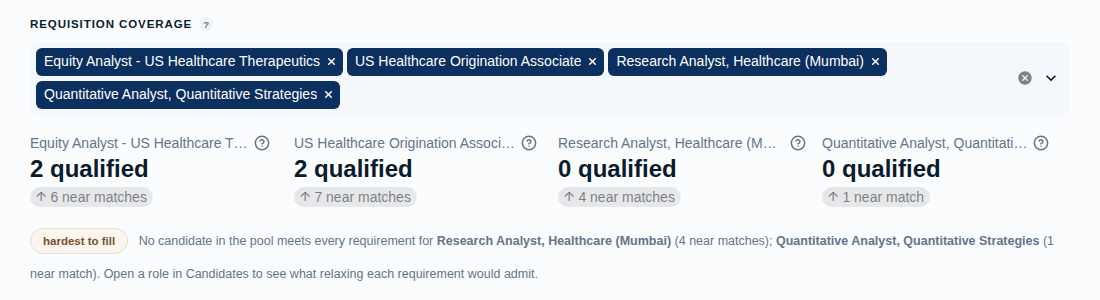
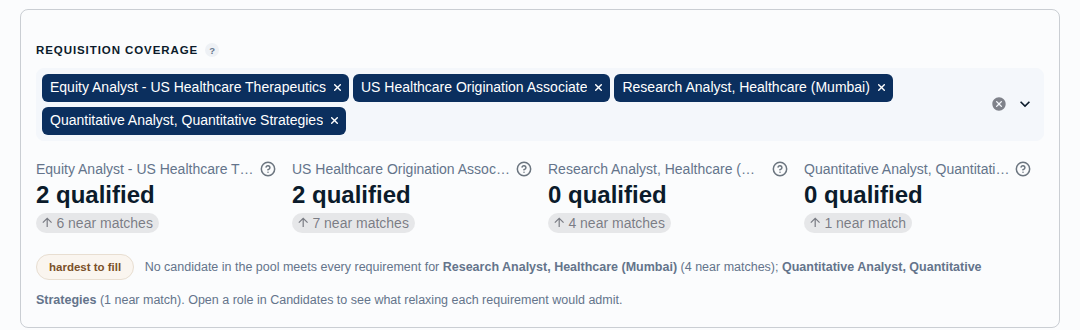
Add files via upload

diff --git a/app.py b/app.py
@@ -2526,59 +2526,76 @@ with tab_insights:
     )
 
     # -- Requisition coverage: the concrete question first ---------------
-    # "Which roles can this pool actually staff?" answered per posting,
-    # before any chart: qualified / near-match counts for every saved
-    # requisition, with the thinnest bench called out.
-    section("Requisition coverage",
-            "For each saved job posting: how many candidates in the pool "
-            "meet every hard requirement (qualified), and how many miss "
-            "exactly one (near match). Counts are for the full pool, "
-            "before sidebar filters.")
-    # Selectable, so the row scales past a handful of postings: every
-    # requisition is shown by default, and a user tracking two roles can
-    # narrow to just those.
-    _req_pick = st.multiselect(
-        "Requisitions to show",
-        options=[sp["id"] for sp in store.items],
-        default=[sp["id"] for sp in store.items],
-        format_func=lambda rid: next(
-            sp["title"] for sp in store.items if sp["id"] == rid),
-        label_visibility="collapsed",
-    )
-    _shown = [sp for sp in store.items if sp["id"] in _req_pick]
-    if not _shown:
-        st.caption("Pick at least one requisition to see its coverage.")
-    _unfilled = []
-    _PER_ROW = 4
-    _req_cols = []
-    for _i in range(0, len(_shown), _PER_ROW):
-        _req_cols.extend(st.columns(_PER_ROW))
-    for _col, _spec in zip(_req_cols, _shown):
-        _ex, _nr = match_all(candidates, _spec, store=store)
-        _title = _spec["title"]
-        _col.metric(
-            _title if len(_title) <= 34 else _title[:32] + "…",
-            f"{len(_ex)} qualified",
-            delta=f"{len(_nr)} near match" + ("es" if len(_nr) != 1 else ""),
-            delta_color="off",
-            help=f"{_spec.get('source', '')}. Qualified candidates meet "
-                 "every hard requirement; near matches miss exactly one.",
-        )
-        if not _ex:
-            _unfilled.append((_title, len(_nr)))
-    if _unfilled:
-        _parts = "; ".join(
-            f"<b>{t}</b> ({n} near match" + ("es" if n != 1 else "") + ")"
-            for t, n in _unfilled)
-        st.markdown(
-            f"<span class='pill pill-note'>hardest to fill</span> "
-            f"<span style='font-size:12.5px;color:{MUTED}'>"
-            f"No candidate in the pool meets every requirement for "
-            f"{_parts}. Open a role in Candidates to see what relaxing "
-            "each requirement would admit.</span>",
-            unsafe_allow_html=True,
-        )
-    st.markdown("---")
+    # Its own bordered card, run as a fragment: the posting picker reruns
+    # only this block, not the whole script, and the card border separates
+    # it from the pool charts below, which answer a different question.
+    @st.cache_data(show_spinner=False)
+    def _req_counts() -> list[tuple[str, str, str, int, int]]:
+        out = []
+        for _sp in store.items:
+            _ex, _nr = match_all(candidates, _sp, store=store)
+            out.append((_sp["id"], _sp["title"], _sp.get("source", ""),
+                        len(_ex), len(_nr)))
+        return out
+
+    @st.fragment
+    def _req_coverage() -> None:
+        with st.container(border=True):
+            section("Requisition coverage",
+                    "For each saved job posting: how many candidates in "
+                    "the pool meet every hard requirement (qualified), "
+                    "and how many miss exactly one (near match). Counts "
+                    "are for the full pool, before sidebar filters.")
+            _rows = _req_counts()
+            _req_pick = st.multiselect(
+                "Requisitions to show",
+                options=[r[0] for r in _rows],
+                default=[r[0] for r in _rows],
+                format_func=lambda rid: next(
+                    r[1] for r in _rows if r[0] == rid),
+                label_visibility="collapsed",
+            )
+            _shown = [r for r in _rows if r[0] in _req_pick]
+            if not _shown:
+                st.caption("Pick at least one requisition to see its "
+                           "coverage.")
+            _PER_ROW = 4
+            _req_cols = []
+            for _i in range(0, len(_shown), _PER_ROW):
+                _req_cols.extend(st.columns(_PER_ROW))
+            _unfilled = []
+            for _col, (_rid, _title, _src, _nq, _nn) in zip(_req_cols,
+                                                            _shown):
+                _col.metric(
+                    _title if len(_title) <= 34 else _title[:32] + "…",
+                    f"{_nq} qualified",
+                    delta=f"{_nn} near match" + ("es" if _nn != 1 else ""),
+                    delta_color="off",
+                    help=f"{_src}. Qualified candidates meet every hard "
+                         "requirement; near matches miss exactly one.",
+                )
+                if not _nq:
+                    _unfilled.append((_title, _nn))
+            if _unfilled:
+                _parts = "; ".join(
+                    f"<b>{t}</b> ({n} near match"
+                    + ("es" if n != 1 else "") + ")"
+                    for t, n in _unfilled)
+                st.markdown(
+                    f"<span class='pill pill-note'>hardest to fill</span> "
+                    f"<span style='font-size:12.5px;color:{MUTED}'>"
+                    f"No candidate in the pool meets every requirement "
+                    f"for {_parts}. Open a role in Candidates to see what "
+                    "relaxing each requirement would admit.</span>",
+                    unsafe_allow_html=True,
+                )
+
+    _req_coverage()
+
+    section("Pool distribution",
+            "How the filtered pool spreads across regions, sectors, "
+            "tenure and credentials. These charts respect the sidebar "
+            "filters and the quality threshold below.")
 
     ctrl1, ctrl2, ctrl3 = st.columns([1.2, 1.2, 1.6])
     chart_quality = ctrl1.select_slider(
@@ -2603,11 +2620,6 @@ with tab_insights:
     if not charted:
         st.info("No candidates left at this threshold.")
     else:
-        st.caption(
-            "Each cell counts the candidates in a group who cover a "
-            "sector, with totals in the axis labels. Empty cells are "
-            "coverage gaps where additional sourcing may be needed."
-        )
         GROUP_KEY = {
             "Region": lambda c: c.get("region"),
             "Market side": lambda c: label_of(c.get("market_side")),
@@ -2637,16 +2649,22 @@ with tab_insights:
                 texttemplate="%{text}", textfont=dict(size=13),
                 hovertemplate="%{y} · %{x}<br>%{z} candidate(s)<extra></extra>",
             ))
-            fig.update_layout(title=f"Sector coverage by {group_by.lower()}",
-                              showlegend=False)
+            section(f"Sector coverage by {group_by.lower()}",
+                    "Each cell counts the candidates in a group who "
+                    "cover a sector; totals sit in the axis labels. "
+                    "Empty cells are coverage gaps.")
+            fig.update_layout(showlegend=False)
             fig.update_yaxes(showgrid=False)
             st.plotly_chart(styled_chart(fig, 300), use_container_width=True)
 
         st.markdown("---")
         left, right = st.columns(2)
         with left:
-            st.markdown("**Career length vs. investing tenure**")
-            st.caption("The gap is the point.")
+            section("Career vs. investing tenure",
+                    "One row per candidate: total career years next to "
+                    "years in investment roles. A wide gap means a "
+                    "career changer from banking, consulting or "
+                    "engineering.")
             pool = sorted([c for c in charted if c["years_experience"] is not None],
                           key=lambda c: c["years_experience"])
             if pool:
@@ -2676,9 +2694,10 @@ with tab_insights:
                 st.plotly_chart(styled_chart(fig, 360), use_container_width=True)
 
         with right:
-            st.markdown("**Most common software and credentials**")
-            st.caption("A role naming a tool nobody holds is a sourcing "
-                       "problem, not a screening one.")
+            section("Software and credentials",
+                    "How many candidates hold each tool and "
+                    "qualification. A role naming a tool nobody holds "
+                    "is a sourcing problem, not a screening one.")
             tally: dict[str, int] = {}
             for c in charted:
                 for tool in c.get("software_tools", []):
